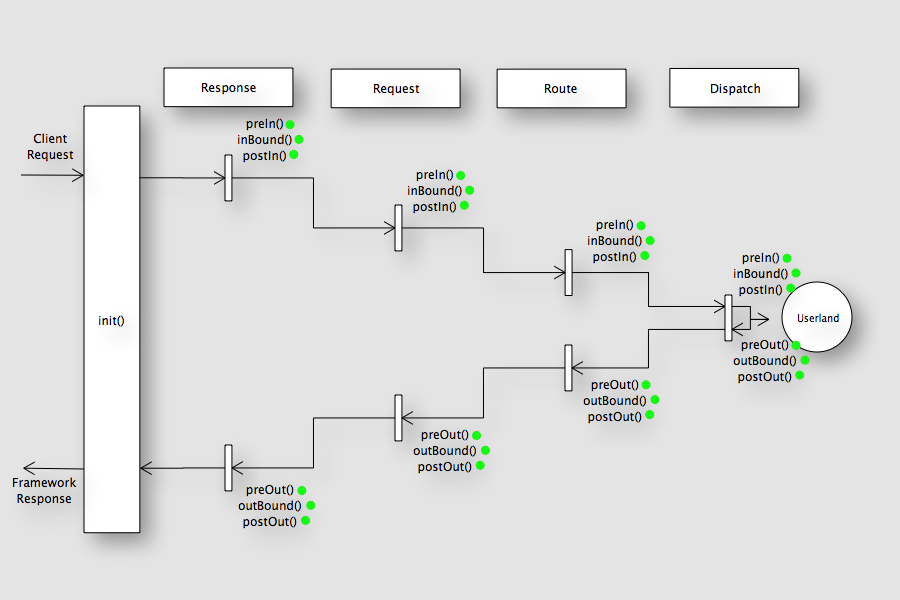
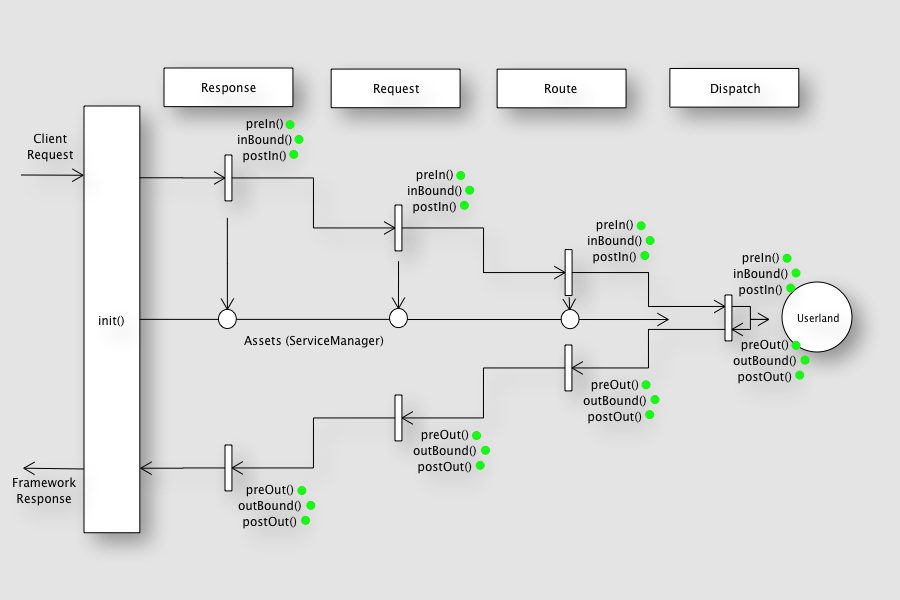
Complete.

diff --git a/bootstrap/index.html b/bootstrap/index.html
@@ -51,6 +51,7 @@
           <ul>
             <li>3+ years in the making</li>
             <li>3+ different incarnations</li>
+            <li>currently pre alpha</li>
           </ul>
         </section>
 
@@ -66,8 +67,8 @@
         </section>
 
         <section>
+          <h2>Motivation</h2>
           <div class="fragment">
-            <h2>Motivation</h2>
             <ul>
               <li class="fragment">Education</li>
               <li class="fragment">Something Useful</li>
@@ -103,6 +104,11 @@
               <li>Easy to Extend</li>
             </ul>
           </div>
+        </section>
+
+        <section>
+          <h2>Bootstrap Filter Chain</h2>
+          <img class="diagram" width="680" src="assets/img/filter-chain.png">
         </section>
 
         <section>
@@ -158,6 +164,10 @@ require_once 'phar://proem.phar';
 
           </section>
 
+          <section>
+            <h2>/hello/world</h2>
+          </section>
+
           <section data-state="open-hello-world">
           </section>
 
@@ -165,7 +175,7 @@ require_once 'phar://proem.phar';
 
         <section>
           <section>
-            <h2>Filter Chain</h2>
+            <h2>Bootstrap Filter Chain</h2>
             <img class="diagram" width="680" src="assets/img/filter-chain.png">
           </section>
 
@@ -173,6 +183,206 @@ require_once 'phar://proem.phar';
             <h2>Bootstrap Events</h2>
             <img class="diagram" width="680" src="assets/img/filter-chain-2.png">
           </section>
+
+          <section>
+            <h3>The Proem Object</h3>
+            <pre><code class="php">
+public function __construct()
+{
+    $this->events = new Asset;
+    $this->events->set('\Proem\Signal\Manager\Template', $this->events->single(function($asset) {
+        return new SignalManager;
+    }));
+
+    $this->serviceManager = new ServiceManager;
+}
+            </code></pre>
+            <pre><code class="php">
+public function init($environment = null)
+{
+    $this->serviceManager->set('events', $this->events);
+
+    (new FilterManager($this->serviceManager))
+        ->attachEvent(new Response, FilterManager::RESPONSE_EVENT_PRIORITY)
+        ->attachEvent(new Request, FilterManager::REQUEST_EVENT_PRIORITY)
+        ->attachEvent(new Route, FilterManager::ROUTE_EVENT_PRIORITY)
+        ->attachEvent(new Dispatch, FilterManager::DISPATCH_EVENT_PRIORITY)
+        ->init();
+}
+            </code></pre>
+
+          </section>
+
+        </section>
+
+        <section>
+          <section>
+            <h3>Using Events To Replace Assets</h3>
+          </section>
+
+          <section>
+            <i>Directory Structure</i>
+            <pre><code class="php">
+.
+├── index.php
+├── lib
+│   ├── Example
+│   │   └── Response.php
+│   └── Module
+│       └── Index
+│           └── Controller
+│               └── Hello.php
+└── proem.phar
+            </code></pre>
+
+          </section>
+
+          <section>
+            <i>Custom Request Object</i>
+            <pre><code class="php">
+namespace Example;
+
+class Response extends \Proem\IO\Response\Http\Standard
+{
+    public function __construct() {
+        parent::__construct();
+
+        $this->body = "Some text to prepend to ";
+        $this->length = strlen($this->body);
+    }
+}
+            </code></pre>
+
+          </section>
+
+          <section>
+            <i>index.php</i>
+            <pre><code class="php">
+require_once 'phar://proem.phar';
+
+(new \Proem\Autoloader)
+    ->registerNamespace('Module', 'lib')
+    ->registerNamespace('Example', 'lib')
+    ->register();
+
+(new \Proem\Proem)
+    ->attachEventListener([
+        'name' => 'pre.in.response',
+        'callback' => function() {
+            $asset = new Proem\Service\Asset\Standard;
+            return $asset->set('Proem\IO\Response\Template', $asset->single(function() {
+                return new \Example\Response;
+            }));
+        }
+    ])
+    ->init();
+            </code></pre>
+
+          </section>
+
+          <section>
+            <h2>/hello/world</h2>
+          </section>
+
+          <section data-state="open-hello-world2">
+          </section>
+
+        </section>
+
+        <section>
+          <h1>How?</h1>
+        </section>
+
+        <section>
+          <section>
+            <i>inBound()</i>
+            <pre><code class="php">
+public function inBound(Manager $assets)
+{
+    if (!$assets->provides('Proem\IO\Response\Template')) {
+        $asset = new Asset;
+        $assets->set(
+            'response',
+            $asset->set('Proem\IO\Response\Template', $asset->single(function() {
+                return new Response;
+            }))
+        );
+    }
+}
+            </code></pre>
+          </section>
+          <section>
+            <i>preIn()</i>
+            <pre><code class="php">
+public function preIn(Manager $assets)
+{
+    if ($assets->provides('events', '\Proem\Signal\Manager\Template')) {
+        $assets->get('events')->trigger([
+            'name'      => 'pre.in.response',
+            'params'    => [],
+            'target'    => $this,
+            'method'    => __FUNCTION__,
+            'event'     => (new Bootstrap())->setServiceManager($assets),
+            'callback'  => function($e) use ($assets) {
+                if ($e->provides('Proem\IO\Response\Template')) {
+                    $assets->set('response', $e);
+                }
+            },
+        ]);
+    }
+}
+            </code></pre>
+
+          </section>
+
+        </section>
+
+        <section>
+          <section>
+            <h3>Using Events To Modify Existing Assets</h3>
+          </section>
+
+          <section>
+            <i>index.php</i>
+            <pre><code class="php">
+require_once 'phar://proem.phar';
+
+(new \Proem\Autoloader)
+    ->registerNamespace('Module', 'lib')
+    ->register();
+
+(new \Proem\Proem)
+    ->attachEventListener([
+        'name' => 'post.in.router',
+        'callback' => function($event) {
+            $event->getServiceManager()->get('router')
+                ->map(
+                    'foo',
+                    new Proem\Routing\Route\Standard([
+                        'rule' => '/foo',
+                        'targets' => [
+                            'module'     => 'index',
+                            'controller' => 'hello',
+                            'action'     => 'world'
+                        ]
+                    ])
+                );
+        }
+    ])
+    ->init();
+            </code></pre>
+
+          </section>
+
+          <section>
+            <h2>/foo</h2>
+          </section>
+
+          <section style="margin-top: 2em" data-state="open-foo">
+            <a href="http://proemframework.org">http://proemframework.org</a>
+            <a href="https://github.com/proem/proem">https://github.com/proem/proem</a><br /><br />
+          </section>
+
         </section>
 
 			</div>
@@ -203,6 +413,14 @@ require_once 'phar://proem.phar';
 				window.open('http://example1/hello/world');
 			});
 
+			Reveal.addEventListener('open-hello-world2', function() {
+				window.open('http://example2/hello/world');
+			});
+
+			Reveal.addEventListener('open-foo', function() {
+				window.open('http://example3/foo');
+			});
+
 			Reveal.initialize({
 				// Display controls in the bottom right corner
 				controls: true,
@@ -217,10 +435,10 @@ require_once 'phar://proem.phar';
 				loop: false,
 
 				// Flags if mouse wheel navigation should be enabled
-				mouseWheel: true,
+				mouseWheel: false,
 
 				// Apply a 3D roll to links on hover
-				rollingLinks: true,
+				rollingLinks: false,
 
 				// UI style
 				theme: query.theme || 'default', // default/neon

diff --git a/bootstrap/css/main.css b/bootstrap/css/main.css
@@ -1,3 +1,7 @@
+::selection { background:#b7daad; color:#fff; text-shadow: none; }
+#reveal .slides {
+  top: 50%;
+}
 #reveal h1,
 #reveal h2,
 #reveal h3,
